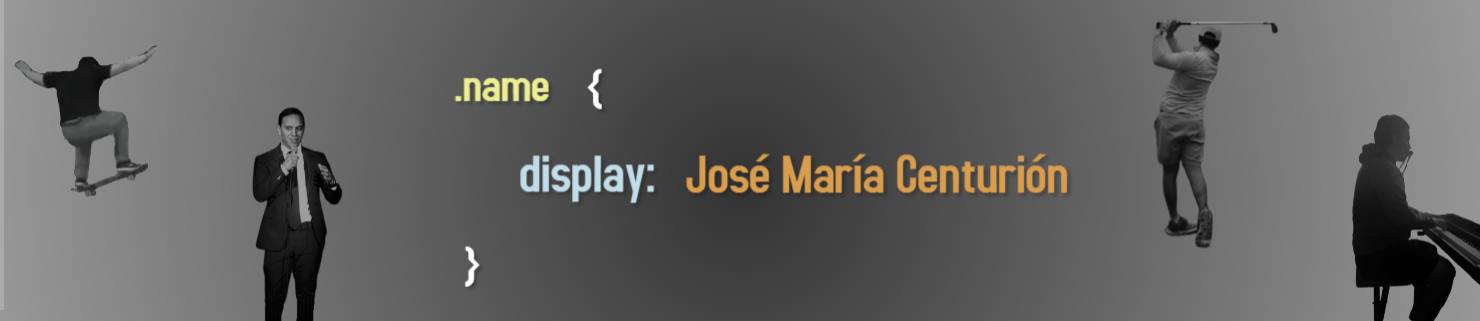
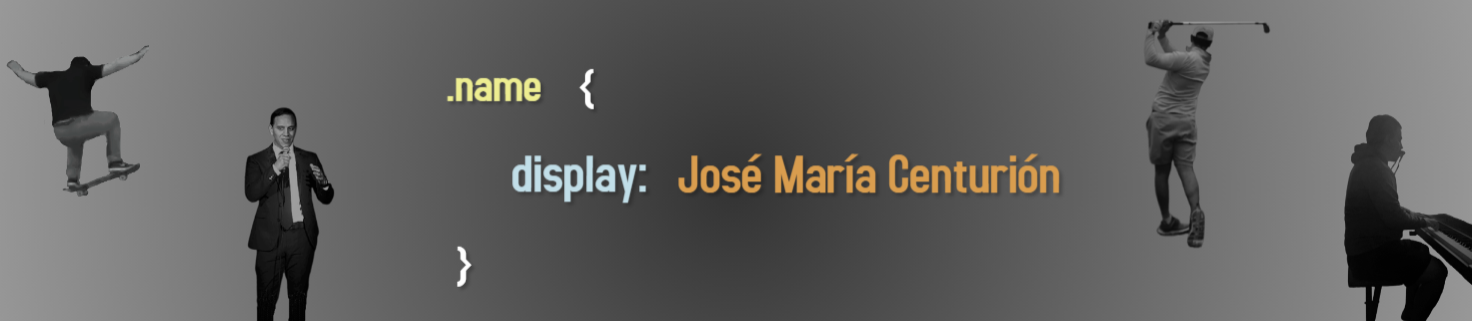
implementing grid properties

diff --git a/assets/styles.css b/assets/styles.css
@@ -9,17 +9,49 @@ body, html {
     background: black;
 }
 
-.navbar {
-    background: rgb(3, 3, 3);
-    line-height: 10vh;
-    color: rgb(245, 246, 247);
+.hero-banner {
+    margin: 0px;
+    padding: 0px;
 }
 
-.banner {
-    height: auto;
-    width: 100vw;
-    margin-bottom: 0px;
-    background-position: center;
-    background-repeat: no-repeat;
-    background-size: contain;
+    .banner {
+        height: auto;
+        width: 100vw;
+        margin-bottom: 0px;
+        background-repeat: no-repeat;
+        background-position: center;
+        background-size: contain;
+    }
+
+    .navbar {
+        background: rgb(51, 51, 51);
+        line-height: 2vh;
+        color: rgb(245, 246, 247);
+        font-size: 10px;
+        text-align: center;
+        background-color: radial-gradient(black, rgb(83, 83, 83));
+        font-family: Cambria, Cochin, Georgia, Times, 'Times New Roman', serif;
+    }
+
+.grid-container {
+    display: grid;
+    grid-template-columns: 1fr 2fr;
+    grid-auto-rows: minmax(150px, auto);
+}
+
+.bio {
+    height:auto;
+    width: 25vw;
+    color: white;
+    background-color: rgb(34, 34, 34);
+}
+
+    .bio img {
+        height: auto;
+        width: 25vw;
+        padding: 20px;
+    }
+
+.repo {
+    color: white;
 }

diff --git a/index.html b/index.html
@@ -10,13 +10,20 @@
 <body>
     <main>
         <header class= "hero-banner">
-            <img class= "banner" src= "./assets/images/Screenshot (87).png"></img>
+            <nav class="navbar" id="navigate">
+                <img class= "banner" src= "./assets/images/Screenshot (87).png"></img>
+                    <h2>chema.centurion - portfolio (v2)</h2>
+            </nav>
         </header>
-        <nav class="navbar" id="navigate">
-            <div class="nav-wrapper">
-                <h2>Navbar</h2>
+        <div class="grid-container">
+            <div class="bio grid-item-1">
+                <img class= "bio" src="./assets/images/carlitojose.JPG"></img>
+                <p>Lorem ipsum dolor sit amet consectetur adipisicing elit. Sapiente eum blanditiis tempore recusandae inventore illo provident officia accusamus quis! Velit beatae dolore laudantium earum doloremque!</p>
             </div>
-        </nav>
-</main>
+            <div class="repo grid-item-2">
+                <h2>carousel here</h2>
+            </div>
+        </div>
+    </main>
 </body>
 </html>
